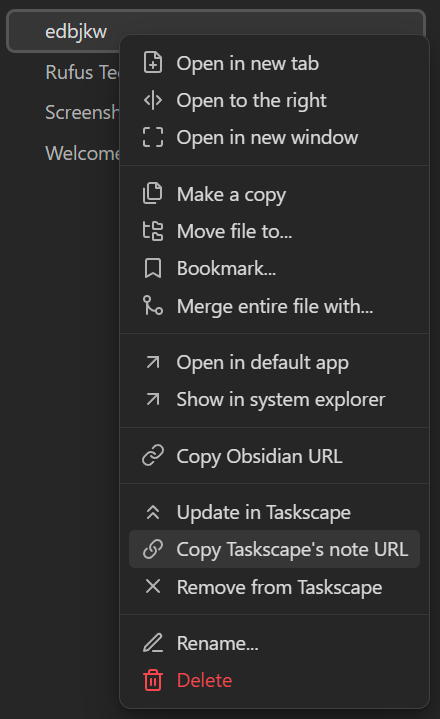
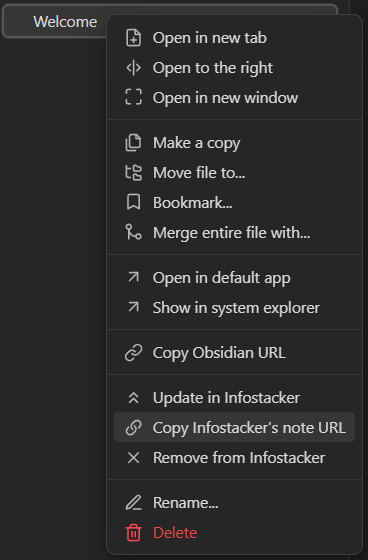
Changed project name

diff --git a/main.ts b/main.ts
@@ -1,14 +1,14 @@
 import { Notice, Plugin, TFile } from 'obsidian';
-import type { TaskSyncClient } from './src/taskSync';
-import { createClient } from './src/taskSync';
+import type { InfostackerClient } from './src/infostacker';
+import { createClient } from './src/infostacker';
 import { getText } from './src/text';
 import { PublishedPostsModal } from './src/modals';
 
-export default class TaskSyncPlugin extends Plugin {
-	TaskSyncClient: TaskSyncClient;
+export default class InfostackerPlugin extends Plugin {
+	InfostackerClient: InfostackerClient;
 
 	async onload() {
-		this.TaskSyncClient = await createClient(
+		this.InfostackerClient = await createClient(
 			async () => ({
 				posts: {},
 				...(await this.loadData()),
@@ -16,55 +16,55 @@ export default class TaskSyncPlugin extends Plugin {
 			async (data) => await this.saveData(data)
 		);
 
-		this.addTaskSyncCommands()
+		this.addInfostackerCommands()
 		this.registerFileMenuEvent()
 	}
 
 	onunload() {
 	}
 
-	addTaskSyncCommands(){
+	addInfostackerCommands(){
 		this.addCommand({
-			id: 'tasksync.action.listPosts',
+			id: 'infostacker.action.listPosts',
 			name: getText('actions.listPosts.name'),
 			callback: () => this.showPublishedPosts(),
 		})
 		this.addCommand({
-			id: 'tasksync.action.create',
+			id: 'infostacker.action.create',
 			name: getText('actions.create.name'),
 			editorCheckCallback: (checking, _, view) => {
 				if (checking){
-					return !this.TaskSyncClient.getUrl(view.file)
+					return !this.InfostackerClient.getUrl(view.file)
 				}
 				this.publishFile(view.file)
 			}
 		})
 		this.addCommand({
-			id: 'tasksync.action.update',
+			id: 'infostacker.action.update',
 			name: getText('actions.update.name'),
 			editorCheckCallback: (checking, _, view) => {
 				if (checking){
-					return !!this.TaskSyncClient.getUrl(view.file)
+					return !!this.InfostackerClient.getUrl(view.file)
 				}
 				this.updateFile(view.file)
 			}
 		})
 		this.addCommand({
-			id: 'tasksync.action.copyUrl',
+			id: 'infostacker.action.copyUrl',
 			name: getText('actions.copyUrl.name'),
 			editorCheckCallback: (checking, _, view) => {
 				if (checking){
-					return !!this.TaskSyncClient.getUrl(view.file)
+					return !!this.InfostackerClient.getUrl(view.file)
 				}
 				this.copyUrl(view.file)
 			}
 		})
 		this.addCommand({
-			id: 'tasksync.action.remove',
+			id: 'infostacker.action.remove',
 			name: getText('actions.remove.name'),
 			editorCheckCallback: (checking, _, view) => {
 				if (checking){
-					return !!this.TaskSyncClient.getUrl(view.file)
+					return !!this.InfostackerClient.getUrl(view.file)
 				}
 				this.deleteFile(view.file)
 			}
@@ -76,7 +76,7 @@ export default class TaskSyncPlugin extends Plugin {
 			this.app.workspace.on('file-menu', (menu, file) => {
 				if (file instanceof TFile) {
 					menu.addSeparator();
-					if (!this.TaskSyncClient.getUrl(file)) {
+					if (!this.InfostackerClient.getUrl(file)) {
 						menu
 							.addItem(item => item
 								.setTitle(getText('actions.create.name'))
@@ -108,12 +108,12 @@ export default class TaskSyncPlugin extends Plugin {
 	}
 
 	showPublishedPosts(){
-		new PublishedPostsModal(this.app, this.TaskSyncClient).open();
+		new PublishedPostsModal(this.app, this.InfostackerClient).open();
 	}
 
 	async publishFile(file: TFile){
 		try {
-			const url = await this.TaskSyncClient.createPost(file);
+			const url = await this.InfostackerClient.createPost(file);
 			await navigator.clipboard.writeText(url);
 			new Notice(getText('actions.create.success'));
 		} catch (e) {
@@ -124,7 +124,7 @@ export default class TaskSyncPlugin extends Plugin {
 
 	async updateFile(file: TFile){
 		try {
-			await this.TaskSyncClient.updatePost(file);
+			await this.InfostackerClient.updatePost(file);
 			new Notice(getText('actions.update.success'));
 		} catch (e) {
 			console.error(e);
@@ -133,7 +133,7 @@ export default class TaskSyncPlugin extends Plugin {
 	}
 
 	async copyUrl(file: TFile){
-		const url = this.TaskSyncClient.getUrl(file);
+		const url = this.InfostackerClient.getUrl(file);
 		if (url) {
 			await navigator.clipboard.writeText(url);
 			new Notice(getText('actions.copyUrl.success'));
@@ -144,7 +144,7 @@ export default class TaskSyncPlugin extends Plugin {
 
 	async deleteFile(file: TFile){
 		try {
-			await this.TaskSyncClient.deletePost(file);
+			await this.InfostackerClient.deletePost(file);
 			new Notice(getText('actions.remove.success'));
 		} catch (e) {
 			console.error(e);

diff --git a/src/infostacker.ts b/src/infostacker.ts
@@ -1,13 +1,13 @@
 import { TFile } from 'obsidian';
 
-const baseUrl = 'https://shr.taskscape.com';
+const baseUrl = 'https://share.infostacker.com';
 
 interface CreateResponse {
 	id: string;
 	secret: string;
 }
 
-const taskSyncWrapper = {
+const infostackerWrapper = {
 	async createPost(formData: FormData): Promise<CreateResponse> {
 		
 		var fetched = fetch(`${baseUrl}/Sharing/UploadMarkdownWithFiles`, {
@@ -72,7 +72,7 @@ export interface Data {
 	posts: Record<string, Post>;
 }
 
-export interface TaskSyncClient {
+export interface InfostackerClient {
 	data(): Data;
 
 	publishPost(file: TFile): Promise<string | null>;
@@ -91,7 +91,7 @@ export interface TaskSyncClient {
 export async function createClient(
 	loadData: () => Promise<Data>,
 	saveData: (data: Data) => Promise<void>
-): Promise<TaskSyncClient> {
+): Promise<InfostackerClient> {
 	const data = await loadData();
 
 	return {
@@ -130,7 +130,7 @@ export async function createClient(
 			}
 			
 			try {
-				const resp = await taskSyncWrapper.createPost(formData);
+				const resp = await infostackerWrapper.createPost(formData);
 				data.posts[file.path] = {
 					id: resp.id,
 					secret: resp.secret,
@@ -180,7 +180,7 @@ export async function createClient(
 			}
 
 			try {
-				await taskSyncWrapper.updatePost(
+				await infostackerWrapper.updatePost(
 					post.id,
 					formData
 				);
@@ -197,7 +197,7 @@ export async function createClient(
 			formData.append('secret', post.secret);
 
 			try {
-				await taskSyncWrapper.deletePost(post.id, formData);
+				await infostackerWrapper.deletePost(post.id, formData);
 				delete data.posts[file.path];
 				await saveData(data);
 			} catch (e) {

diff --git a/src/text.ts b/src/text.ts
@@ -18,27 +18,27 @@ function flatten(obj: Record<string, any>) {
 };
 
 const strings = flatten({
-	serviceName: 'Taskscape note manager',
+	serviceName: 'Infostacker note manager',
 	actions: {
 		create: {
-			name: 'Publish to Taskscape',
-			success: 'Note published to Taskscape. URL copied to clipboard.',
-			failure: 'Failed to publish note to Taskscape'
+			name: 'Publish to Infostacker',
+			success: 'Note published to Infostacker. URL copied to clipboard.',
+			failure: 'Failed to publish note to Infostacker'
 		},
 		update: {
-			name: 'Update in Taskscape',
-			success: 'Updated note in Taskscape. It may take a little while before update becomes visible.',
-			failure: 'Failed to update note in Taskscape'
+			name: 'Update in Infostacker',
+			success: 'Updated note in Infostacker. It may take a little while before update becomes visible.',
+			failure: 'Failed to update note in Infostacker'
 		},
 		copyUrl: {
-			name: 'Copy Taskscape\'s note URL',
-			success: 'Taskscape\'s note URL copied to clipboard',
+			name: 'Copy Infostacker\'s note URL',
+			success: 'Infostacker\'s note URL copied to clipboard',
 			failure: 'Note not yet published'
 		},
 		remove: {
-			name: 'Remove from Taskscape',
-			success: 'Note removed from Taskscape',
-			failure: 'Failed to remove note form Taskscape'
+			name: 'Remove from Infostacker',
+			success: 'Note removed from Infostacker',
+			failure: 'Failed to remove note form Infostacker'
 		},
 		listPosts: {
 			name: 'View published posts',

diff --git a/src/modals.ts b/src/modals.ts
@@ -1,16 +1,16 @@
 import { App, Modal, setIcon, TFile } from 'obsidian';
 import { getText } from './text';
-import { TaskSyncClient } from './taskSync';
+import { InfostackerClient } from './infostacker';
 
 export class PublishedPostsModal extends Modal {
-	constructor(app: App, private TaskSyncClient: TaskSyncClient) {
+	constructor(app: App, private InfostackerClient: InfostackerClient) {
 		super(app);
 	}
 
 	onOpen() {
 		this.contentEl.createEl('h1', {text: getText('actions.listPosts.title')});
 
-		for (const [path] of Object.entries(this.TaskSyncClient.data().posts)) {
+		for (const [path] of Object.entries(this.InfostackerClient.data().posts)) {
 			const file = app.vault.getAbstractFileByPath(path);
 			if (!(file instanceof TFile)) {
 				continue;
@@ -33,7 +33,7 @@ export class PublishedPostsModal extends Modal {
 
 			const webLink = buttonContainer.createEl('a',{
 				cls: 'hidden',
-				href: this.TaskSyncClient.getUrl(file),
+				href: this.InfostackerClient.getUrl(file),
 			});
 
 			const showPost = buttonContainer.createEl('button');

diff --git a/README.md b/README.md
@@ -1,8 +1,8 @@
-# Obsidian Note Publish Plugin Documentation
+# Infostacker Note Publish Plugin Documentation
 
 ## Overview
 
-The Obsidian Note Publish plugin enables users to send notes to a server, edit them, and delete them directly within the Obsidian program. Additionally, it allows users to share notes with others via a generated link. The plugin supports attachments, and users with the link can view the note along with its attachments in HTML format.
+The Infostacker Note Publish plugin enables users to send notes to a server, edit them, and delete them directly within the Obsidian program. Additionally, it allows users to share notes with others via a generated link. The plugin supports attachments, and users with the link can view the note along with its attachments in HTML format.
 
 ## Installation
 
@@ -22,13 +22,13 @@ The Obsidian Note Publish plugin enables users to send notes to a server, edit t
 7. If it doesn't exist, create a folder named "plugins" and enter it.
 8. Copy the downloaded plugin folder and paste it into the "plugins" folder.
 9. Open the folder containing the plugin files using a code editor (Visual Studio Code is recommended).
-10. In `taskSync.ts`, modify the `baseUrl` (line 4) to the URL of the server that will receive requests.
+10. In `infostacker.ts`, modify the `baseUrl` (line 4) to the URL of the server that will receive requests.
 11. Open the terminal and run `npm install` in the root directory of the plugin (where this readme is located).
 12. After successful installation, run `npm run dev` in the terminal.
 13. Switch back to Obsidian, press `Ctrl+P`, and type "reload".
 14. Select "Reload app without saving".
 15. Open the Settings again and go to the "Community plugins" tab.
-16. In the "Installed plugins" section, "Taskscape’s Note Publish" should appear. Enable it using the radio button.
+16. In the "Installed plugins" section, "Infostacker Note Publish" should appear. Enable it using the radio button.
 
 ## Usage
 
@@ -69,4 +69,4 @@ If you encounter any issues during installation or usage, refer to the plugin's 
 
 ---
 
-This documentation provides a comprehensive guide to installing, configuring, and using the Obsidian Note Publish plugin. If you have any further questions or require additional support, feel free to consult the plugin documentation or contact the plugin developer.
+This documentation provides a comprehensive guide to installing, configuring, and using the Infostacker Note Publish plugin. If you have any further questions or require additional support, feel free to consult the plugin documentation or contact the plugin developer.
